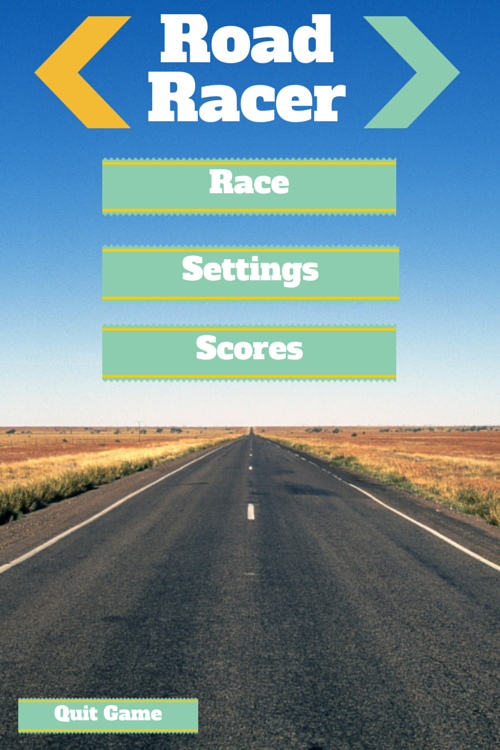
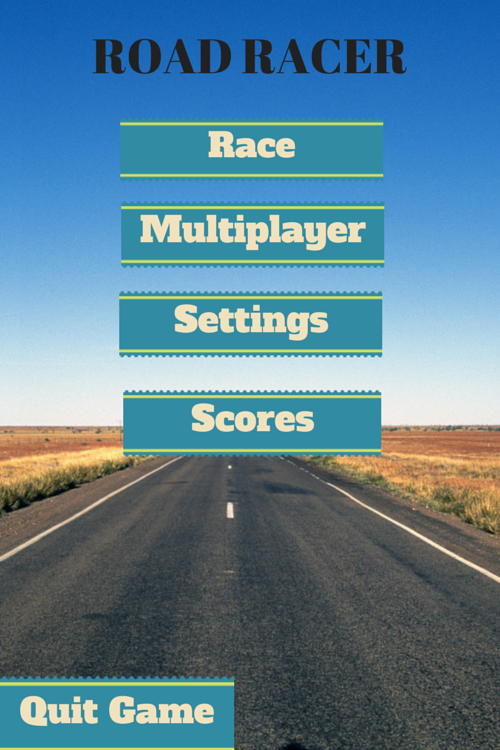
UI changes

diff --git a/src/eecs285/proj4/finalGame/GameLogic.java b/src/eecs285/proj4/finalGame/GameLogic.java
@@ -29,7 +29,7 @@ public class GameLogic extends GameCanvas {
 
     private final long UPDATE_DELAY = nanosPerSecond / FPS;
 
-    public static enum GameState {STARTING, SHOWING, LOADING, MENU, OPTIONS, PLAYING, ENDED, CRASHED}
+    public static enum GameState {STARTING, SHOWING, LOADING, MENU, OPTIONS, PLAYING, ENDED, CRASHED, RACE, MULTIPLAYER,SETTINGS,SCORE,QUIT,SETTINGS1}
 
     public static GameState gameState;
 
@@ -40,9 +40,14 @@ public class GameLogic extends GameCanvas {
 
     private Game game;
 
+    private gameSettings settings;
+
     private BufferedImage menuScreen;
 
     private SongPlayer songPlayer;
+
+    private BufferedImage menuScreen1,menuScreen2,menuScreen3,menuScreen4,menuScreen5;
+
 
     public GameLogic(){
 
@@ -83,8 +88,23 @@ public class GameLogic extends GameCanvas {
     private void loadMenu(){
 
      try{
-         URL menuScreenPath = this.getClass().getResource("/images/MenuScreen.png");
+         URL menuScreenPath = this.getClass().getResource("/images/menuScreen.png");
          menuScreen = ImageIO.read(menuScreenPath);
+
+         URL menuScreenRace = this.getClass().getResource("/images/menuScreen1.png");
+         menuScreen1 = ImageIO.read(menuScreenRace);
+
+         URL menuScreenMultiplayer = this.getClass().getResource("/images/menuScreen2.png");
+         menuScreen2 = ImageIO.read(menuScreenMultiplayer);
+
+         URL menuScreenSettings = this.getClass().getResource("/images/menuScreen5.png");
+         menuScreen3 = ImageIO.read(menuScreenSettings);
+
+         URL menuScreenScores = this.getClass().getResource("/images/menuScreen3.png");
+         menuScreen4 = ImageIO.read(menuScreenScores);
+
+         URL menuScreenQuit = this.getClass().getResource("/images/menuScreen4.png");
+         menuScreen5 = ImageIO.read(menuScreenQuit);
 
      } catch(IOException ex){
          Logger.getLogger(GameLogic.class.getName()).log(Level.SEVERE, null, ex);
@@ -199,6 +219,29 @@ public class GameLogic extends GameCanvas {
                 g2d.setColor(Color.white);
                 g2d.drawImage(menuScreen,0,0,frameWidth,frameHeight,null);
                 break;
+            case RACE:
+                g2d.setColor(Color.white);
+                g2d.drawImage(menuScreen1,0,0,frameWidth,frameHeight,null);
+                break;
+            case MULTIPLAYER:
+                g2d.setColor(Color.white);
+                g2d.drawImage(menuScreen2,0,0,frameWidth,frameHeight,null);
+                break;
+            case SETTINGS:
+                g2d.setColor(Color.white);
+                g2d.drawImage(menuScreen3,0,0,frameWidth,frameHeight,null);
+                break;
+            case SETTINGS1:
+                settings.Draw(g2d);
+                break;
+            case SCORE:
+                g2d.setColor(Color.white);
+                g2d.drawImage(menuScreen4,0,0,frameWidth,frameHeight,null);
+                break;
+            case QUIT:
+                g2d.setColor(Color.white);
+                g2d.drawImage(menuScreen5,0,0,frameWidth,frameHeight,null);
+                break;
             case OPTIONS:
                 break;
             case PLAYING:
@@ -214,22 +257,64 @@ public class GameLogic extends GameCanvas {
         }
     }
 
+
     @Override
-    public void mouseClicked(MouseEvent event){
+    public void mousePressed(MouseEvent event){
         Point b = mousePos();
         int xVal = (int) b.getX();
         int yVal = (int) b.getY();
 
-        if(xVal >= 100 && yVal >= 160 && yVal <= 215 && xVal <= 400) {
-            //SongPlayer.pauseSound();
-            newGame();
-        }else if(xVal >= 100 && yVal >= 245 && yVal <= 295 && xVal <= 400){
-            //songPlayer.playSound();
-            //newSettings();
-        }else if(xVal >= 20 && yVal >= 680 && yVal <= 712 && xVal <= 200){
-            quitGame();
-        }
+        System.out.println(xVal);
+        System.out.println(yVal);
 
+        switch(gameState) {
+            case MENU:
+             if (xVal >= 121 && xVal <= 384 && yVal >= 119 && yVal <= 174) {
+                gameState = GameState.RACE;
+             }
+             else if (xVal >= 121 && xVal <= 384 && yVal >= 200 && yVal <= 254 ) {
+                 gameState = GameState.MULTIPLAYER;
+             }
+             else if (xVal >= 121 && xVal <= 384 && yVal >= 286 && yVal <= 341) {
+                 gameState = GameState.SETTINGS;
+             }
+             else if(xVal >= 121 && xVal <= 384 && yVal >= 384 && yVal <= 442){
+                gameState = GameState.SCORE;
+             }
+             else if(xVal>= 2 && xVal <= 231 && yVal >= 660 && yVal <= 708){
+                 gameState = GameState.QUIT;
+             }
+             break;
+
+            case SETTINGS1:
+
+                break;
+
+         }
+    }
+
+    public void mouseReleased(MouseEvent event){
+        Point b = mousePos();
+        int xVal = (int) b.getX();
+        int yVal = (int) b.getY();
+
+        switch(gameState) {
+           case RACE:
+               newGame();
+               break;
+           case MULTIPLAYER:
+
+               break;
+           case SCORE:
+
+               break;
+           case SETTINGS:
+               Settings();
+               break;
+           case QUIT:
+               quitGame();
+               break;
+        }
     }
 
     private void newGame(){
@@ -237,6 +322,13 @@ public class GameLogic extends GameCanvas {
         prevTime = System.nanoTime();
 
         game = new Game();
+    }
+
+    private void Settings(){
+        elapsedTime = 0;
+        prevTime = System.nanoTime();
+
+        settings = new gameSettings();
     }
 
     private void restart(){
